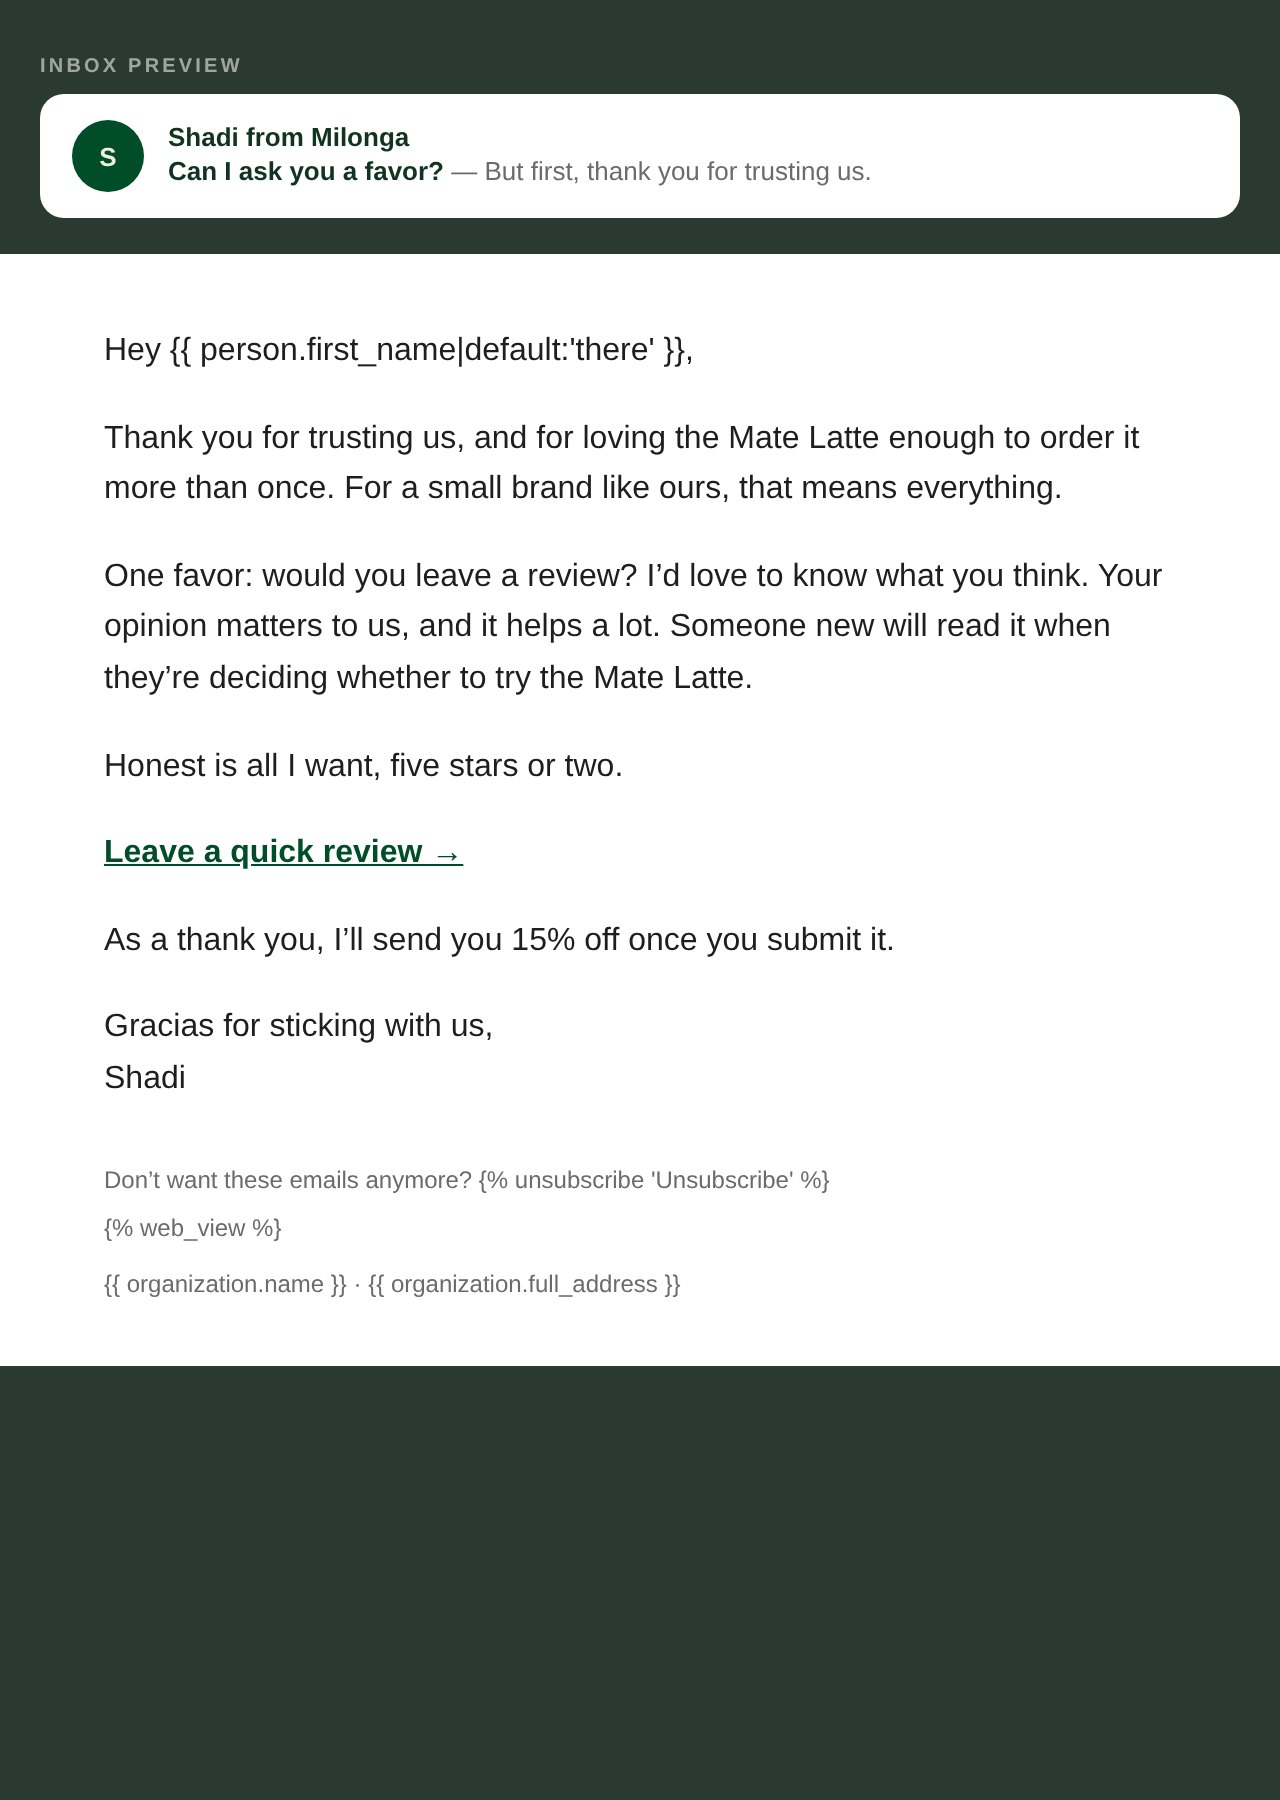
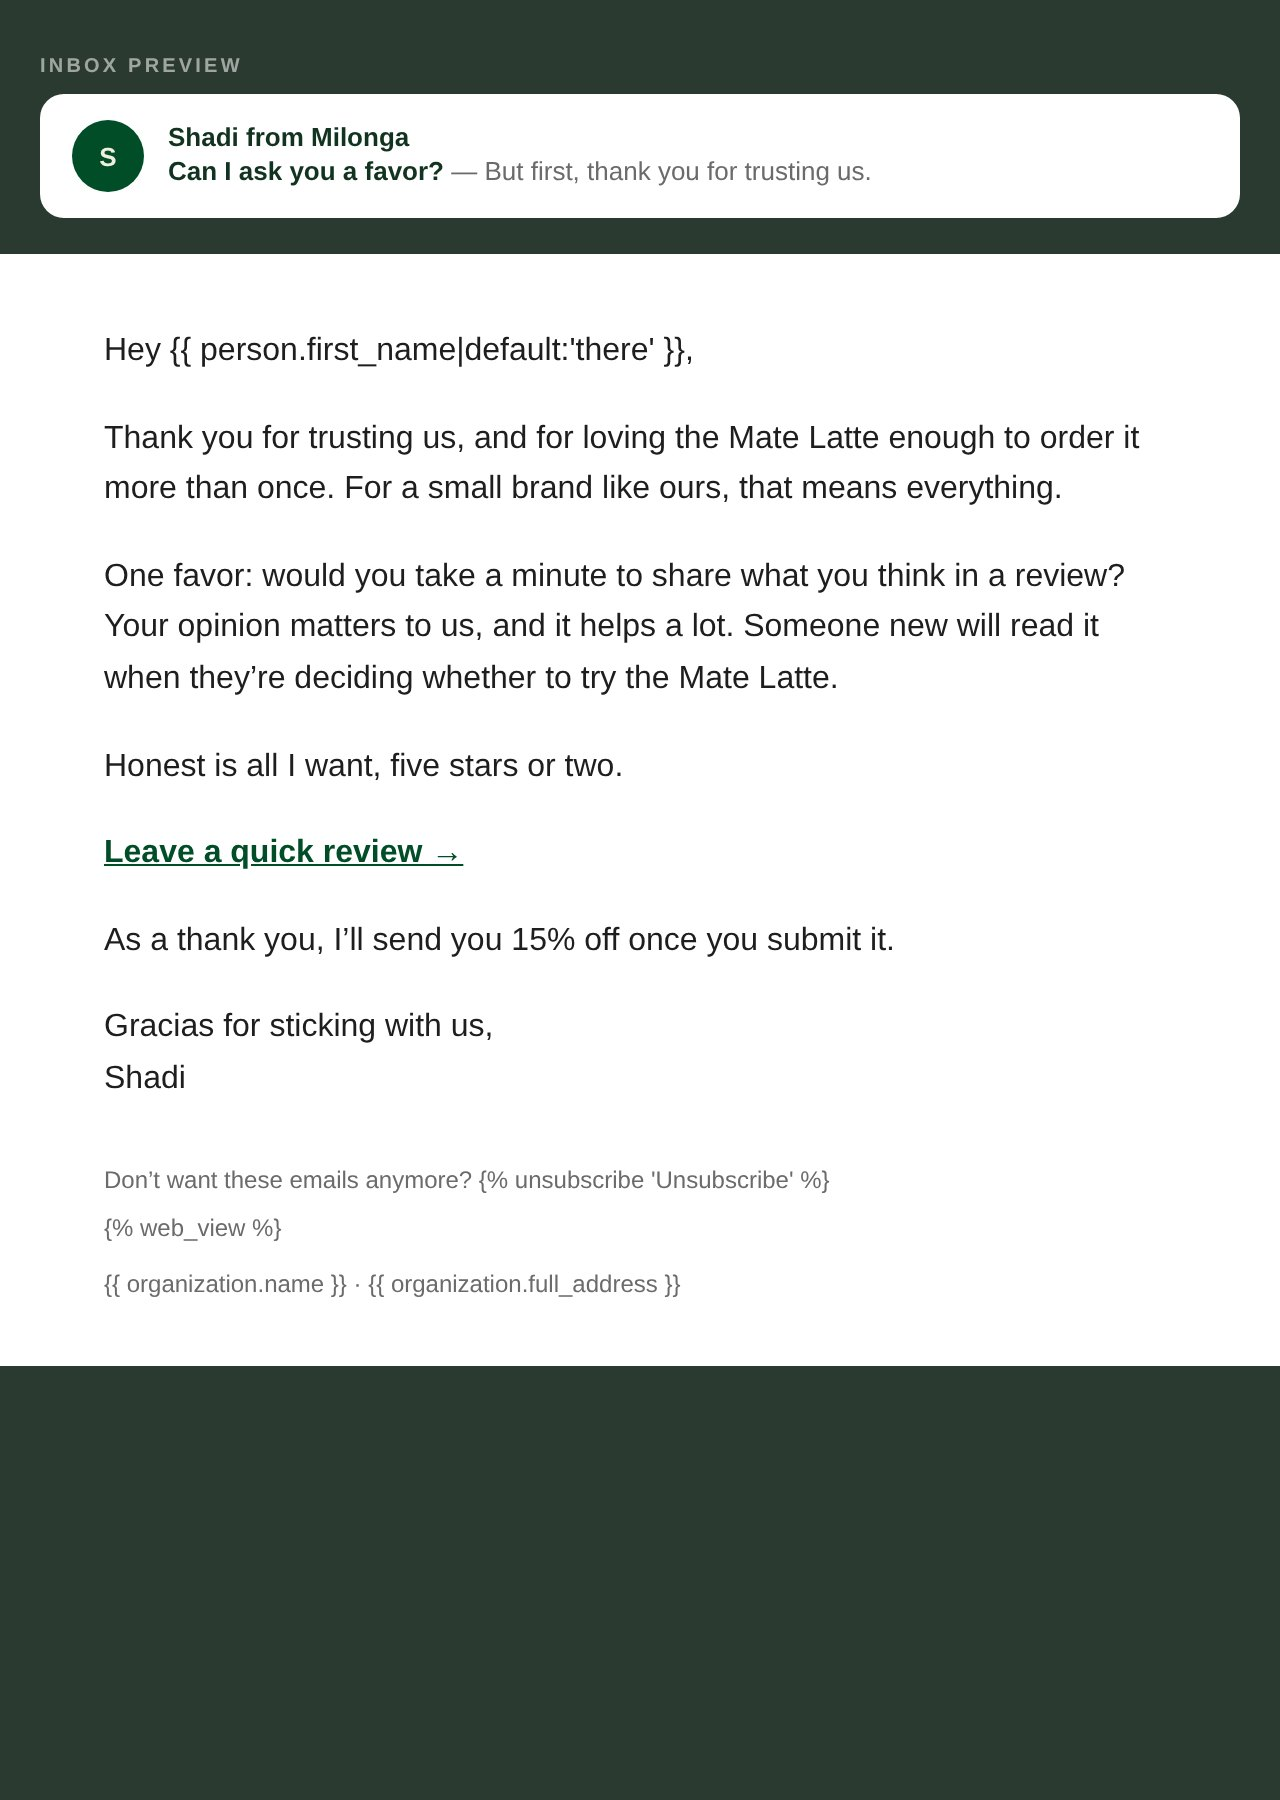
Review request, repeat buyers E1: the ask is about their opinion
'Would you take a minute to share what you think in a review?' replaces
'would you leave a review? I'd love to know what you think.'

Claude-Session: https://claude.ai/code/session_0165XRX6qdjN6jQ924HLbrcX

Changed region(s): [[0.0625, 0.3111, 0.9062, 0.4044]]

diff --git a/email-ds/exports/klaviyo/review-repeat-e1/review-repeat-e1.html b/email-ds/exports/klaviyo/review-repeat-e1/review-repeat-e1.html
@@ -25,7 +25,7 @@
 
 <p style="margin:0 0 18px;">Hey {{ person.first_name|default:'there' }},</p>
 <p style="margin:0 0 18px;">Thank you for trusting us, and for loving the Mate Latte enough to order it more than once. For a small brand like ours, that means everything.</p>
-<p style="margin:0 0 18px;">One favor: would you leave a review? I&rsquo;d love to know what you think. Your opinion matters to us, and it helps a lot. Someone new will read it when they&rsquo;re deciding whether to try the Mate Latte.</p>
+<p style="margin:0 0 18px;">One favor: would you take a minute to share what you think in a review? Your opinion matters to us, and it helps a lot. Someone new will read it when they&rsquo;re deciding whether to try the Mate Latte.</p>
 <p style="margin:0 0 18px;">Honest is all I want, five stars or two.</p>
 <p style="margin:0 0 18px;"><a href="https://milonga.life/products/the-original-mate-latte?judgeme_review_source=shareable-link#judgeme_product_reviews" target="_blank" style="color:#004D27;font-weight:bold;text-decoration:underline;">Leave a quick review &rarr;</a></p>
 <p style="margin:0 0 18px;">As a thank you, I&rsquo;ll send you 15% off once you submit it.</p>

diff --git a/email-ds/refine/review-repeat-e1.html b/email-ds/refine/review-repeat-e1.html
@@ -9,7 +9,7 @@
 
 <p style="margin:0 0 18px;">Hey {{ person.first_name|default:'there' }},</p>
 <p style="margin:0 0 18px;">Thank you for trusting us, and for loving the Mate Latte enough to order it more than once. For a small brand like ours, that means everything.</p>
-<p style="margin:0 0 18px;">One favor: would you leave a review? I&rsquo;d love to know what you think. Your opinion matters to us, and it helps a lot. Someone new will read it when they&rsquo;re deciding whether to try the Mate Latte.</p>
+<p style="margin:0 0 18px;">One favor: would you take a minute to share what you think in a review? Your opinion matters to us, and it helps a lot. Someone new will read it when they&rsquo;re deciding whether to try the Mate Latte.</p>
 <p style="margin:0 0 18px;">Honest is all I want, five stars or two.</p>
 <p style="margin:0 0 18px;"><a href="https://milonga.life/products/the-original-mate-latte?judgeme_review_source=shareable-link#judgeme_product_reviews" target="_blank" style="color:#004D27;font-weight:bold;text-decoration:underline;">Leave a quick review &rarr;</a></p>
 <p style="margin:0 0 18px;">As a thank you, I&rsquo;ll send you 15% off once you submit it.</p>
